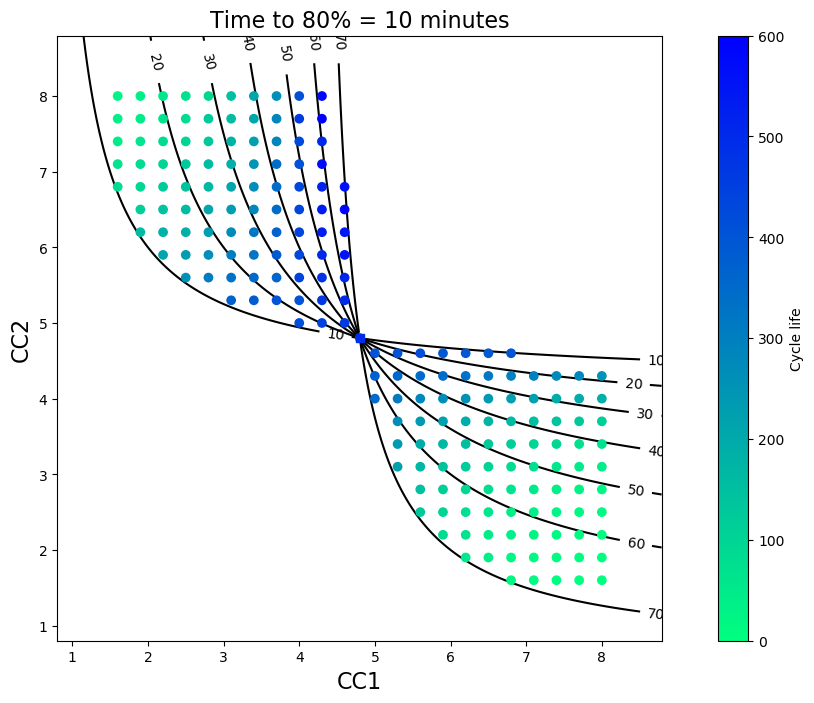
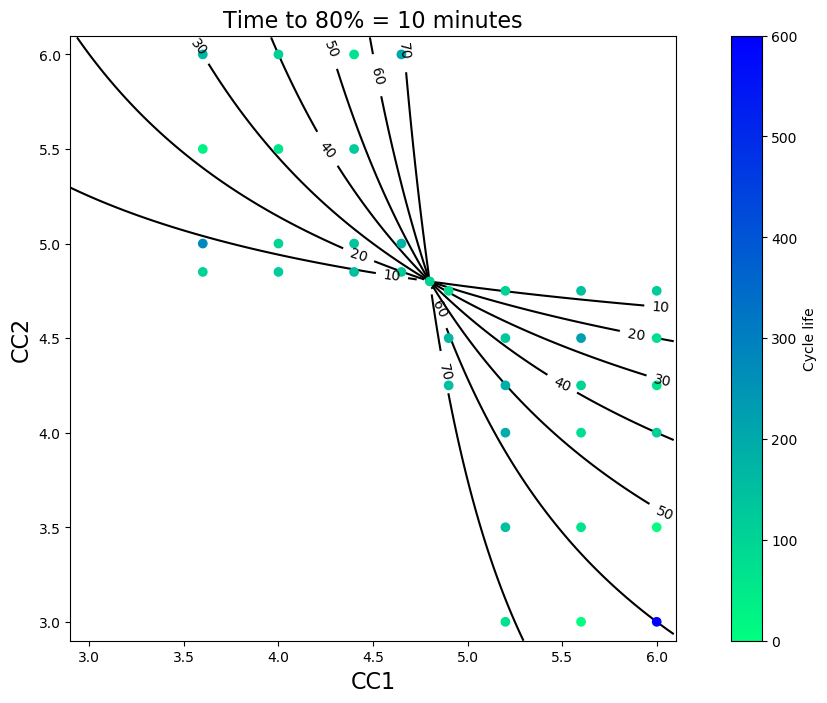
batch2 simulations

diff --git a/contour_lifetimes_batch2.py b/contour_lifetimes_batch2.py
@@ -1,0 +1,74 @@
+#!/usr/bin/env python3
+# -*- coding: utf-8 -*-
+"""
+Created on Tue Feb 20 07:29:14 2018
+
+@author: peter
+"""
+
+from batch2sim import batch2sim
+import numpy as np
+import matplotlib.pyplot as plt
+
+plt.close('all')
+
+LOWER_CRATE_LIM = 3 # C rate
+UPPER_CRATE_LIM = 6   # C rate
+chargetime = 10       # [=] minutes
+margin = 0.1 # plotting margin
+
+# Import policies
+policies = np.genfromtxt('batch2policies.csv', delimiter=',', skip_header=1)
+
+# Calculate Q1(CC1, CC2) values for contour lines
+CC1 = np.arange(LOWER_CRATE_LIM-margin,UPPER_CRATE_LIM + margin,0.01)
+CC2 = np.arange(LOWER_CRATE_LIM-margin,UPPER_CRATE_LIM + margin,0.01)
+[X,Y] = np.meshgrid(CC1,CC2)
+Q1 = (100)*(chargetime - ((60*0.8)/Y))/((60/X)-(60/Y))
+Q1[np.where(Q1<0)]  = float('NaN')
+Q1[np.where(Q1>80)] = float('NaN')
+Q1_values = np.arange(5,76,10)
+
+## Create contour plot
+## Initialize plot 1: color = SOC1
+fig = plt.figure() # x = CC1, y = CC2, contours = Q1
+ax = fig.add_subplot(111)
+plt.set_cmap('jet') # winter_r
+C = plt.contour(X,Y,Q1,colors='k',zorder=1)
+plt.clabel(C, fontsize=10,fmt='%1.0f')
+plt.title('Time to 80% = ' + str(chargetime) + ' minutes',fontsize=16)
+plt.xlabel('CC1',fontsize=16)
+plt.ylabel('CC2',fontsize=16)
+plt.axis('square')
+plt.xlim((LOWER_CRATE_LIM-margin, UPPER_CRATE_LIM+margin))
+plt.ylim((LOWER_CRATE_LIM-margin, UPPER_CRATE_LIM+margin))
+
+# Make full screen
+manager = plt.get_current_fig_manager()
+manager.window.showMaximized()
+
+## CALCULATE POLICY LIFETIMES
+lifetime = np.zeros((len(policies),1))
+for i in range(len(policies)):
+    C1 = policies[i,0]
+    C2 = policies[i,1]
+    print('\nC1 = ' + '{:.2f}'.format(C1) + ', C2 = ' + '{:.2f}'.format(C2))
+    lifetime[i] = batch2sim(C1,C2,variance=False)
+
+## PLOT POLICIES
+plt.scatter(policies[:,0],policies[:,1],c=lifetime.ravel(),zorder=2,s=100)
+plt.scatter(policies[0,0],policies[0,1],marker='s',c=np.asscalar(lifetime[0]),zorder=3,s=100)
+
+## ANNOTATIONS
+bbox_props = dict(fc="white", ec="k")
+for i, txt in enumerate(lifetime):
+    ax.annotate(txt[0],(policies[i,0],policies[i,1]),xytext=(policies[i,0]+0.05,policies[i,1]),
+                bbox = bbox_props)
+
+## COLORBAR
+cbar = plt.colorbar()
+plt.clim(400,600)
+cbar.set_label('Cycle life')
+
+## SAVE FIGURE
+plt.savefig('contour_lifetimes_batch2.png', bbox_inches='tight')

diff --git a/bayesgap_batch2.py b/bayesgap_batch2.py
@@ -1,6 +1,5 @@
 import numpy as np
 import argparse
-from thermalsim import thermalsim
 from batch2sim import batch2sim
 
 class BayesGap(object):
@@ -192,8 +191,8 @@ class BayesGap(object):
 
 	def get_parameter_space(self):
 
-		policies = np.genfromtxt('policies.csv',
-				delimiter=',', skip_header=0)
+		policies = np.genfromtxt('batch2policies.csv',
+				delimiter=',', skip_header=1)
 
 		return policies
 
@@ -204,10 +203,9 @@ class BayesGap(object):
 
 		for arm in selected_arms:
 			params = X[arm]
-			reward = thermalsim(params[0], params[1])
+			reward = batch2sim(params[0], params[1],variance=False)
 			rewards.append(reward)
 			print(params, reward)
-
 		rewards = np.array(rewards).reshape((-1,1))
 		return rewards
 
@@ -225,13 +223,13 @@ def parse_args():
 						help='batch size')
 	parser.add_argument('--datadir', nargs='?', default='data/',
 						help='Directory for cycling data')
-	parser.add_argument('--prior_std', default=20, type=float,
+	parser.add_argument('--prior_std', default=1, type=float,
 						help='standard deviation for the prior')
-	parser.add_argument('--likelihood_std', default=2.19, type=float,
+	parser.add_argument('--likelihood_std', default=2, type=float,
 						help='standard deviation for the likelihood std')
-	parser.add_argument('--beta', default=1, type=float,
+	parser.add_argument('--beta', default=2000, type=float,
 						help='exploration constant in Thm 1')
-	parser.add_argument('--epsilon', default=1, type=float,
+	parser.add_argument('--epsilon', default=0.9, type=float,
 						help='decay constant for exploration')
 
 	return parser.parse_args()
@@ -249,7 +247,7 @@ def main():
 	agent = BayesGap(args)
 	best_arm_params = agent.run()
 	print('Best arm:', best_arm_params)
-	print('Lifetime:', thermalsim(best_arm_params[0], best_arm_params[1]))
+	batch2sim(best_arm_params[0], best_arm_params[1], variance=False)
 
 
 if __name__ == '__main__':

diff --git a/batch2sim.py b/batch2sim.py
@@ -1,0 +1,47 @@
+#!/usr/bin/env python3
+# -*- coding: utf-8 -*-
+"""
+Created on Thu Apr 12 2018
+
+@author: peter
+"""
+
+import random
+import numpy as np
+
+def batch2sim(C1, C2, variance = True):
+    
+    # STANDARD DEVIATION
+    if variance:
+        sigma = np.std([495, 461, 471]); # batch2 baseline policy
+    else:
+        sigma = 0;
+        
+    # LOAD BATCH2
+    policies = np.genfromtxt('batch2.csv',
+				delimiter=',', skip_header=1)
+    
+    # FIND LIFETIME FROM TABLE
+    idxC1 = np.where(policies == C1)
+    idxC2 = np.where(policies == C2)
+    idx_policy = np.intersect1d(idxC1[0],idxC2[0])
+    if len(idx_policy) == 0:
+        print('No policy found')
+        return np.nan
+    elif len(idx_policy) == 2:
+        if policies[idx_policy[0]][0] == C1:
+            idx_policy = idx_policy[0]
+        else:
+            idx_policy = idx_policy[1]
+        lifetime = policies[idx_policy][2];
+    else:
+        lifetime = policies[idx_policy[0]][2];
+    
+    # ADD NOISE
+    lifetime_meas = int(random.gauss(lifetime, sigma))
+    
+    # PRINT
+    print('True lifetime = ' + str(lifetime))
+    print('Measured lifetime = ' + str(lifetime_meas))
+    
+    return lifetime_meas
